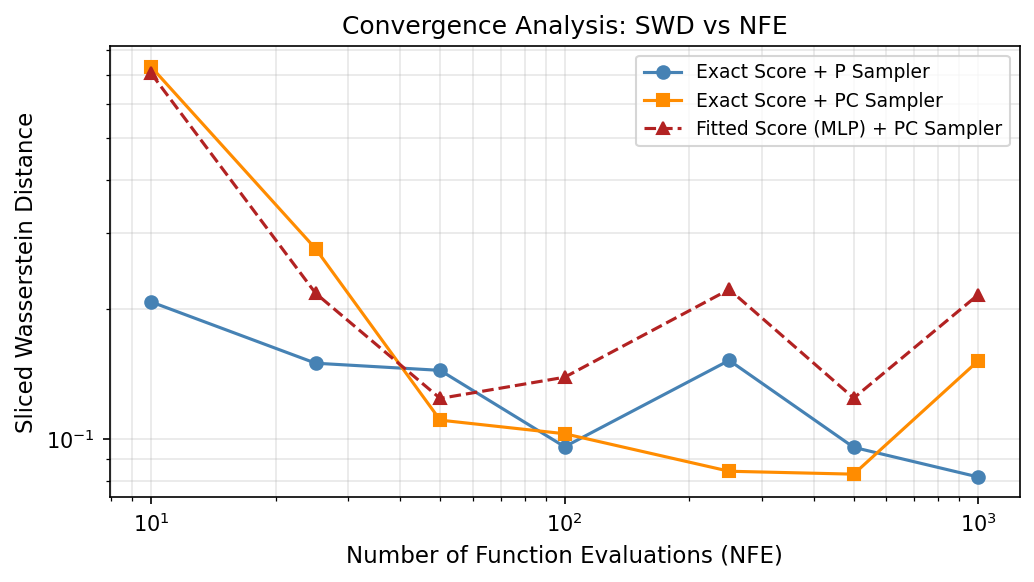
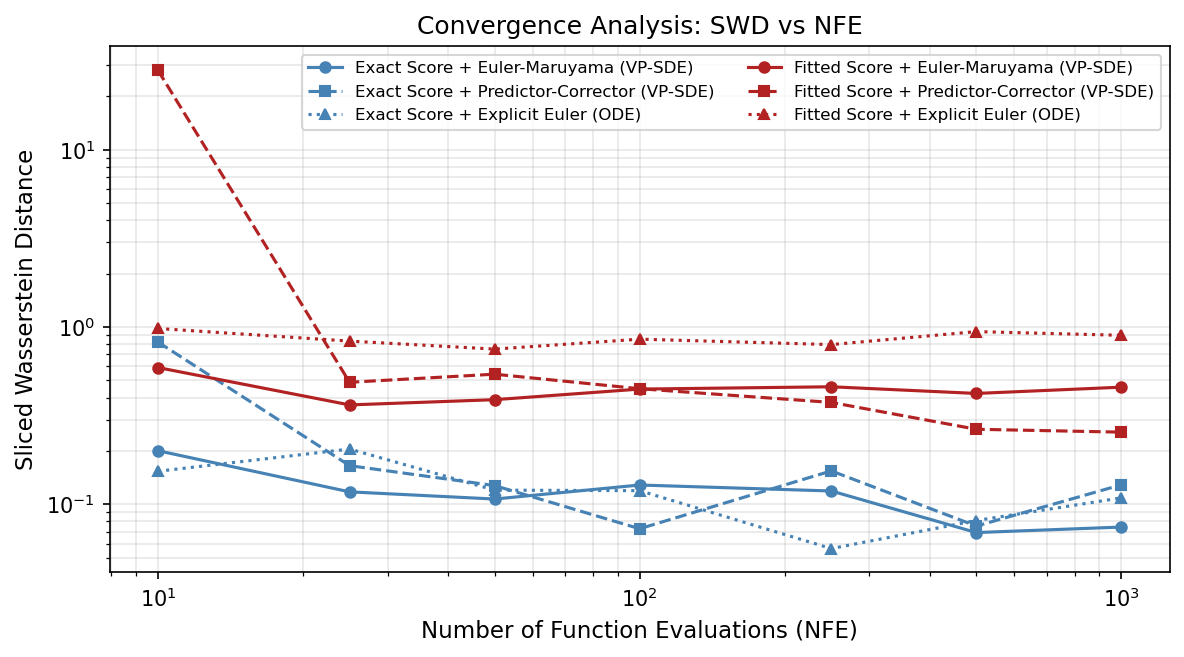
bug fixing

diff --git a/notebook/plot_convergence_nfe.py b/notebook/plot_convergence_nfe.py
@@ -17,13 +17,15 @@ Tweak the parameters in "Experiment Setup" below before running.
 """
 import os
 import sys
+import yaml
 
 os.environ['KMP_DUPLICATE_LIB_OK'] = 'True'
 sys.path.insert(0, os.path.abspath('..'))
 
 import numpy as np
 import matplotlib.pyplot as plt
-import yaml
+from matplotlib.lines import Line2D
+
 
 from models.infer import build_gmm, build_score_fn
 from models.solver import euler_maruyama, probability_flow_ode, predictor_corrector
@@ -33,20 +35,20 @@ from utils.wasserstein import sliced_wasserstein
 # Experiment Setup
 # =============================================================================
 # NFE grid to sweep
-NFE_LIST    = [10, 25, 50, 100, 250, 500, 1000]
+NFE_LIST    = [50, 100, 250, 500, 1000, 2000]
 
 # Sliced Wasserstein settings
 N_SLICES    = 500    # number of random projections (more → less variance)
-SW_SEED     = 42     # projection seed for reproducibility
+SW_SEED     = 1024     # projection seed for reproducibility
 
 # Reference distribution
-REF_N       = 5000   # samples drawn from true GMM as ground truth
+REF_N       = 4096   # samples drawn from true GMM as ground truth
 
 # Inference overrides (None → use value from vp_config.yaml)
-N_SAMPLES   = 1000   # generated samples per NFE point
+N_SAMPLES   = 4096   # generated samples per NFE point
 N_CORRECTOR = 1      # Langevin corrector steps per predictor step (PC only)
 SNR         = 0.10   # signal-to-noise ratio for Langevin step size  (PC only)
-T_EPS       = None   # stop time for reverse sampler; None → config value
+T_EPS       = 1e-3   # stop time for reverse sampler; None → config value
 # =============================================================================
 
 
@@ -54,13 +56,22 @@ def run_sweep(score_fn, sampler: str, nfe_list,
               T, t_eps, n_samples, beta_min, beta_max,
               n_corrector, snr, x_ref):
     """
-    Run one sampler across all NFE budgets; return list of SWD values.
+    Run one sampler across all NFE budgets; return (actual_nfe_list, swd_list).
 
     sampler : 'p' | 'pc' | 'ode'
+    NFE accounting:
+        p / ode : NFE = steps  (1 score eval per step)
+        pc      : NFE = steps * (1 + n_corrector)
     """
     swd_list = []
+    actual_nfe_list = []
     for nfe in nfe_list:
-        steps = nfe if sampler in ('p', 'ode') else max(1, nfe // (1 + n_corrector))
+        if sampler in ('p', 'ode'):
+            steps = nfe
+        else:
+            steps = max(1, nfe // (1 + n_corrector))
+
+        actual_nfe = steps if sampler in ('p', 'ode') else steps * (1 + n_corrector)
         ts     = np.linspace(T, t_eps, steps + 1)
         x_init = np.random.randn(n_samples, 2)
 
@@ -74,8 +85,9 @@ def run_sweep(score_fn, sampler: str, nfe_list,
 
         swd = sliced_wasserstein(traj[-1], x_ref, n_slices=N_SLICES, seed=SW_SEED)
         swd_list.append(swd)
-        print(f'  NFE={nfe:5d}  steps={steps:5d}  SWD={swd:.4f}')
-    return swd_list
+        actual_nfe_list.append(actual_nfe)
+        print(f'  NFE={actual_nfe:5d}  steps={steps:5d}  SWD={swd:.4f}')
+    return actual_nfe_list, swd_list
 
 
 def main():
@@ -120,31 +132,87 @@ def main():
     # ------------------------------------------------------------------
     # Plot
     # ------------------------------------------------------------------
-    COLORS = {'Exact': 'steelblue', 'Fitted': 'firebrick'}
-    STYLES = {
-        'p':   ('o', '-',  'Euler-Maruyama (VP-SDE)'),
-        'pc':  ('s', '--', 'Predictor-Corrector (VP-SDE)'),
-        'ode': ('^', ':',  'Explicit Euler (ODE)'),
+    # solver → color,  score type → linestyle
+    COLORS = {
+        'p':   'tab:blue',
+        'pc':  'tab:orange',
+        'ode': 'tab:green',
+    }
+    LINE_STYLES = {
+        'Exact':  '-',
+        'Fitted': '--',
+    }
+    MARKERS = {
+        'p':   'o',
+        'pc':  's',
+        'ode': '^',
     }
 
-    fig, ax = plt.subplots(figsize=(8, 4.5))
+    fig, ax = plt.subplots(figsize=(7, 4.5))
 
-    for (score_label, sampler), swd_list in curves.items():
-        marker, linestyle, sampler_name = STYLES[sampler]
-        ax.plot(NFE_LIST, swd_list,
-                marker=marker, linestyle=linestyle,
-                color=COLORS[score_label], markersize=5,
-                label=f'{score_label} Score + {sampler_name}')
+    for (score_label, sampler), (nfe_actual, swd_list) in curves.items():
+        ax.plot(
+            nfe_actual, swd_list,
+            marker=MARKERS[sampler],
+            linestyle=LINE_STYLES[score_label],
+            color=COLORS[sampler],
+            markersize=5
+        )
 
     ax.set_xscale('log')
     ax.set_yscale('log')
+    ax.set_xticks(NFE_LIST)
+    ax.set_xticklabels([str(n) for n in NFE_LIST])
     ax.set_xlabel('Number of Function Evaluations (NFE)', fontsize=11)
     ax.set_ylabel('Sliced Wasserstein Distance', fontsize=11)
-    ax.set_title('Convergence Analysis: SWD vs NFE', fontsize=12)
-    ax.legend(fontsize=8, ncol=2)
     ax.grid(True, which='both', alpha=0.3)
 
-    plt.tight_layout()
+    # --------------------------------------------------------------
+    # Two separate legend panels:
+    #   1) solver legend (color + marker)
+    #   2) score legend (linestyle)
+    # Title via suptitle to avoid overlapping the legend boxes
+    # --------------------------------------------------------------
+    solver_handles = [
+        Line2D([0], [0], color=COLORS['p'],   marker='o', linestyle='-', markersize=5, label='EM'),
+        Line2D([0], [0], color=COLORS['pc'],  marker='s', linestyle='-', markersize=5, label='PC'),
+        Line2D([0], [0], color=COLORS['ode'], marker='^', linestyle='-', markersize=5, label='ODE'),
+    ]
+
+    score_handles = [
+        Line2D([0], [0], color='dimgray', linestyle='-',  linewidth=2, label='Exact'),
+        Line2D([0], [0], color='dimgray', linestyle='--', linewidth=2, label='Fitted'),
+    ]
+
+    legend_solver = ax.legend(
+        handles=solver_handles,
+        title='Solver',
+        fontsize=8,
+        title_fontsize=9,
+        loc='upper left',
+        bbox_to_anchor=(0.12, 1.20),
+        ncol=3,
+        frameon=True,
+        columnspacing=1.0,
+        handlelength=2.0,
+    )
+    ax.add_artist(legend_solver)
+
+    ax.legend(
+        handles=score_handles,
+        title='Score',
+        fontsize=8,
+        title_fontsize=9,
+        loc='upper right',
+        bbox_to_anchor=(0.88, 1.20),
+        ncol=2,
+        frameon=True,
+        columnspacing=1.0,
+        handlelength=2.0,
+    )
+
+    # fig.suptitle('Convergence Analysis: SWD vs NFE', fontsize=12)
+    plt.tight_layout(rect=[0, 0, 1, 0.82])
     out_path = 'output/visual2_convergence.png'
     os.makedirs(os.path.dirname(out_path), exist_ok=True)
     plt.savefig(out_path, dpi=150, bbox_inches='tight')

diff --git a/models/train.py b/models/train.py
@@ -12,6 +12,7 @@ sys.path.insert(0, os.path.join(os.path.dirname(__file__), ".."))
 from models.infer import build_gmm
 from models.score import ScoreNet
 from utils.forward_vp import forward_diffuse
+from utils.noise_scheduler import sigma2
 
 
 # ---- Train the ScoreNet by minimizing deviation of condition scores ---
@@ -49,13 +50,18 @@ def train(cfg_path: str, save_path: str = None):
         # closed-form forward noising, output noised data & conditional score
         x_t, target = forward_diffuse(x0, t, beta_min, beta_max)      # (N, 2), (N, 2)
 
+        # likelihood weighting lambda(t) = sigma(t)^2 balances loss across t:
+        # without it, small-t terms (sigma->0, score->inf) dominate by ~1e6x
+        lam = sigma2(t, beta_min, beta_max).astype(np.float32)         # (N,)
+
         # convert to torch.tensor
         x_t_th  = torch.tensor(x_t,    dtype=torch.float32)
         t_th    = torch.tensor(t,      dtype=torch.float32)
         tgt_th  = torch.tensor(target, dtype=torch.float32)
+        lam_th  = torch.tensor(lam,    dtype=torch.float32).unsqueeze(-1)  # (N, 1)
 
         pred = model(x_t_th, t_th)
-        loss = ((pred - tgt_th) ** 2).mean()
+        loss = (lam_th * (pred - tgt_th) ** 2).mean()
 
         optimizer.zero_grad()
         loss.backward()

diff --git a/notebook/plot_sampler_dynamics.py b/notebook/plot_sampler_dynamics.py
@@ -86,9 +86,9 @@ def main():
     # Figure: 1 row × 3 cols — trajectory plots
     # ------------------------------------------------------------------
     sampler_cfgs = [
-        (traj_em,  'P Sampler (Euler-Maruyama)'),
-        (traj_pc,  'PC Sampler (Predictor-Corrector)'),
-        (traj_ode, 'ODE Sampler (Probability Flow)'),
+        (traj_em,  'EM Solver (Euler-Maruyama)'),
+        (traj_pc,  'PC Solver (EM & Langevin)'),
+        (traj_ode, 'ODE Solver (Explicit Euler)'),
     ]
 
     fig, axes = plt.subplots(1, 3, figsize=(13, 4.5))
@@ -100,7 +100,7 @@ def main():
             n_traj=N_TRAJ, traj_steps=TRAJ_STEPS,
             beta_min=beta_min, beta_max=beta_max, T=T,
         )
-        ax.set_title(f'{name}\n({score_label})', fontsize=10)
+        ax.set_title(f'{name}\n with {score_label}', fontsize=10)
         ax.set_xlabel(r'$x_1$')
         ax.set_ylabel(r'$x_2$')
 

diff --git a/models/infer.py b/models/infer.py
@@ -61,7 +61,7 @@ def build_score_fn(cfg: dict, gmm: gaussian_mix,
         model.load_state_dict(torch.load(weights_path, map_location='cpu'))
         model.eval()
         score_fn = model.score_fn
-        label    = 'Fitted Score (MLP)'
+        label    = 'Fitted Score'
 
     return score_fn, label
 
